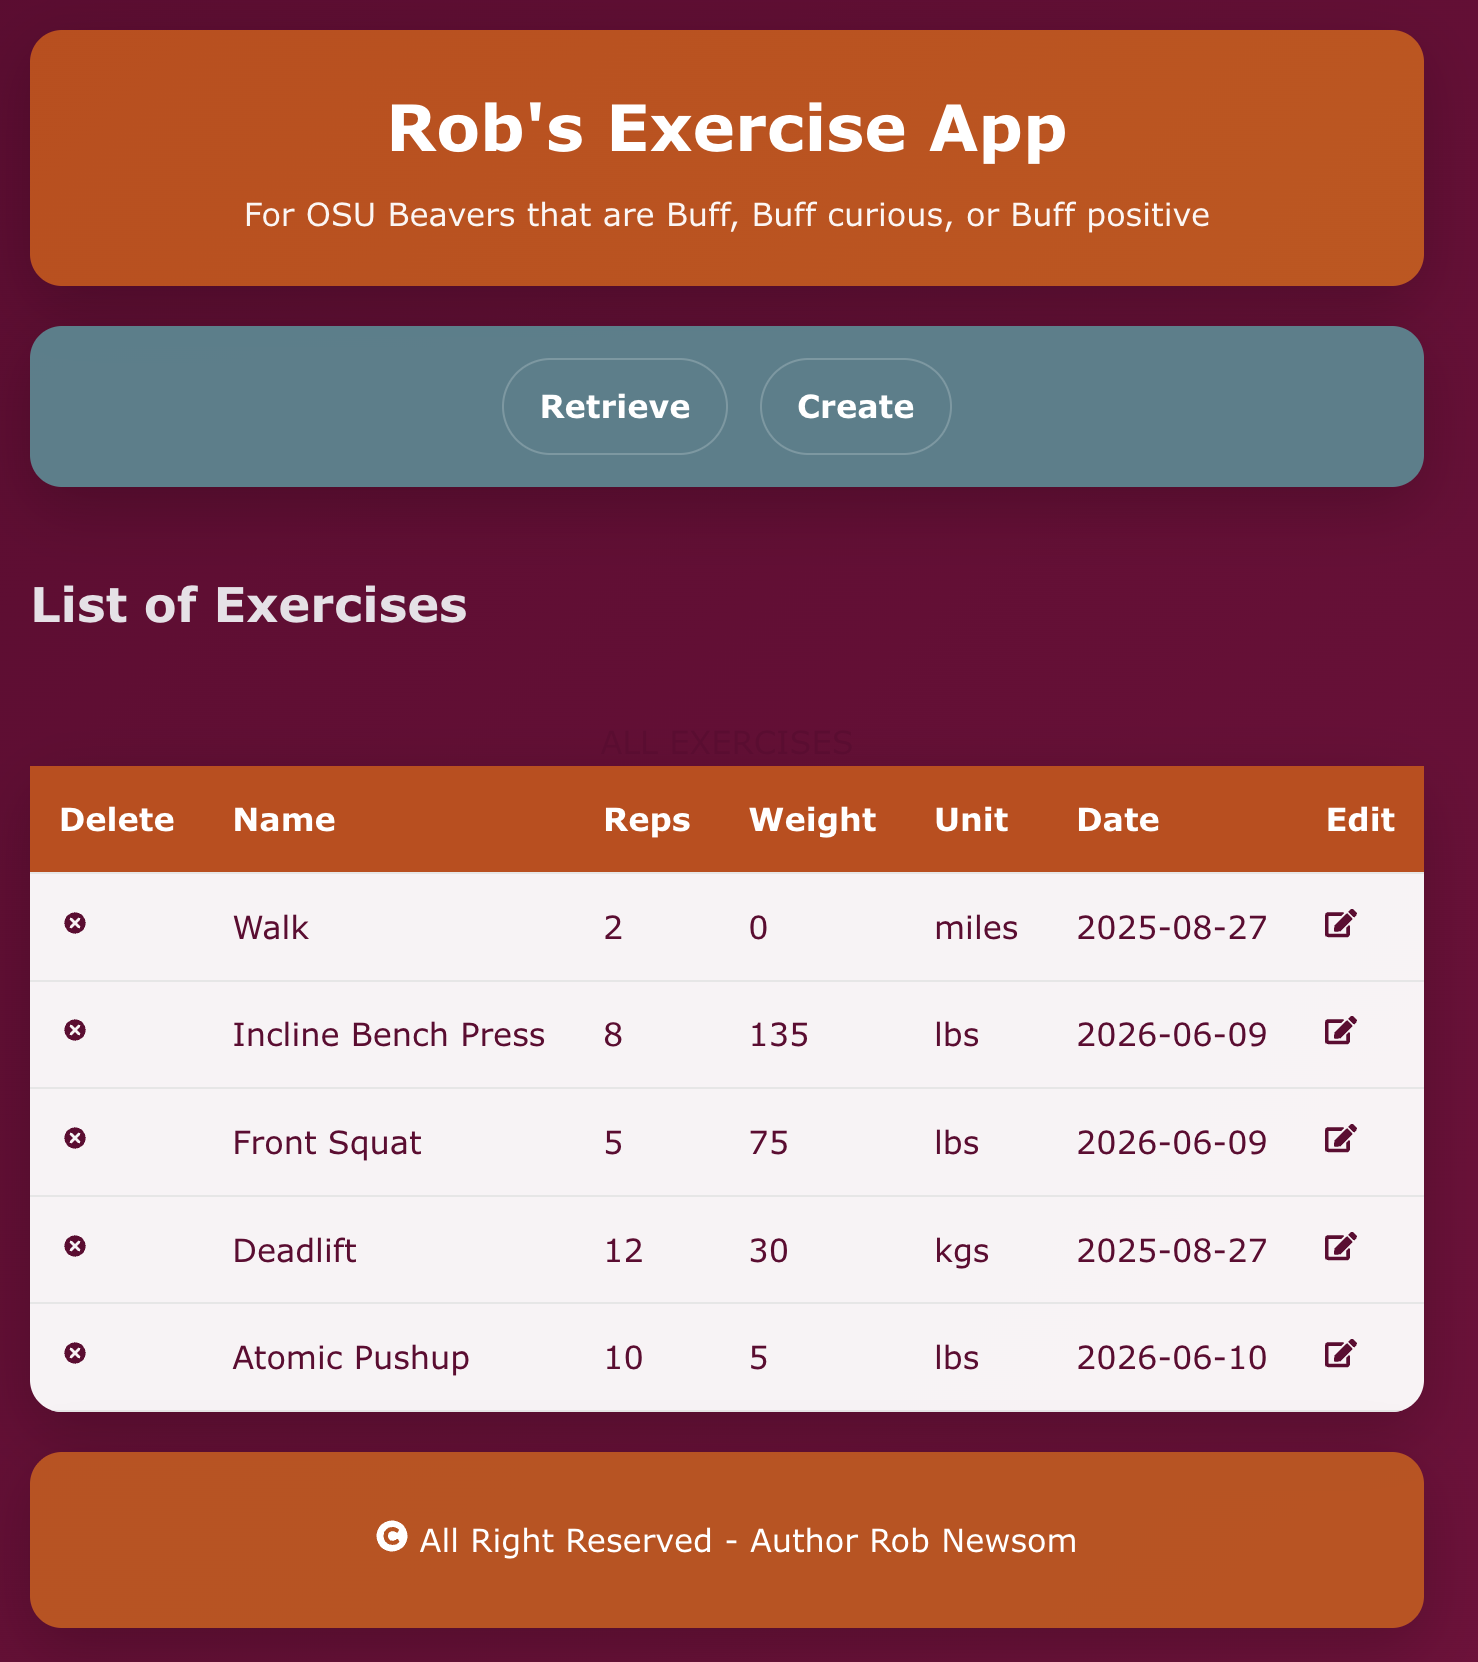
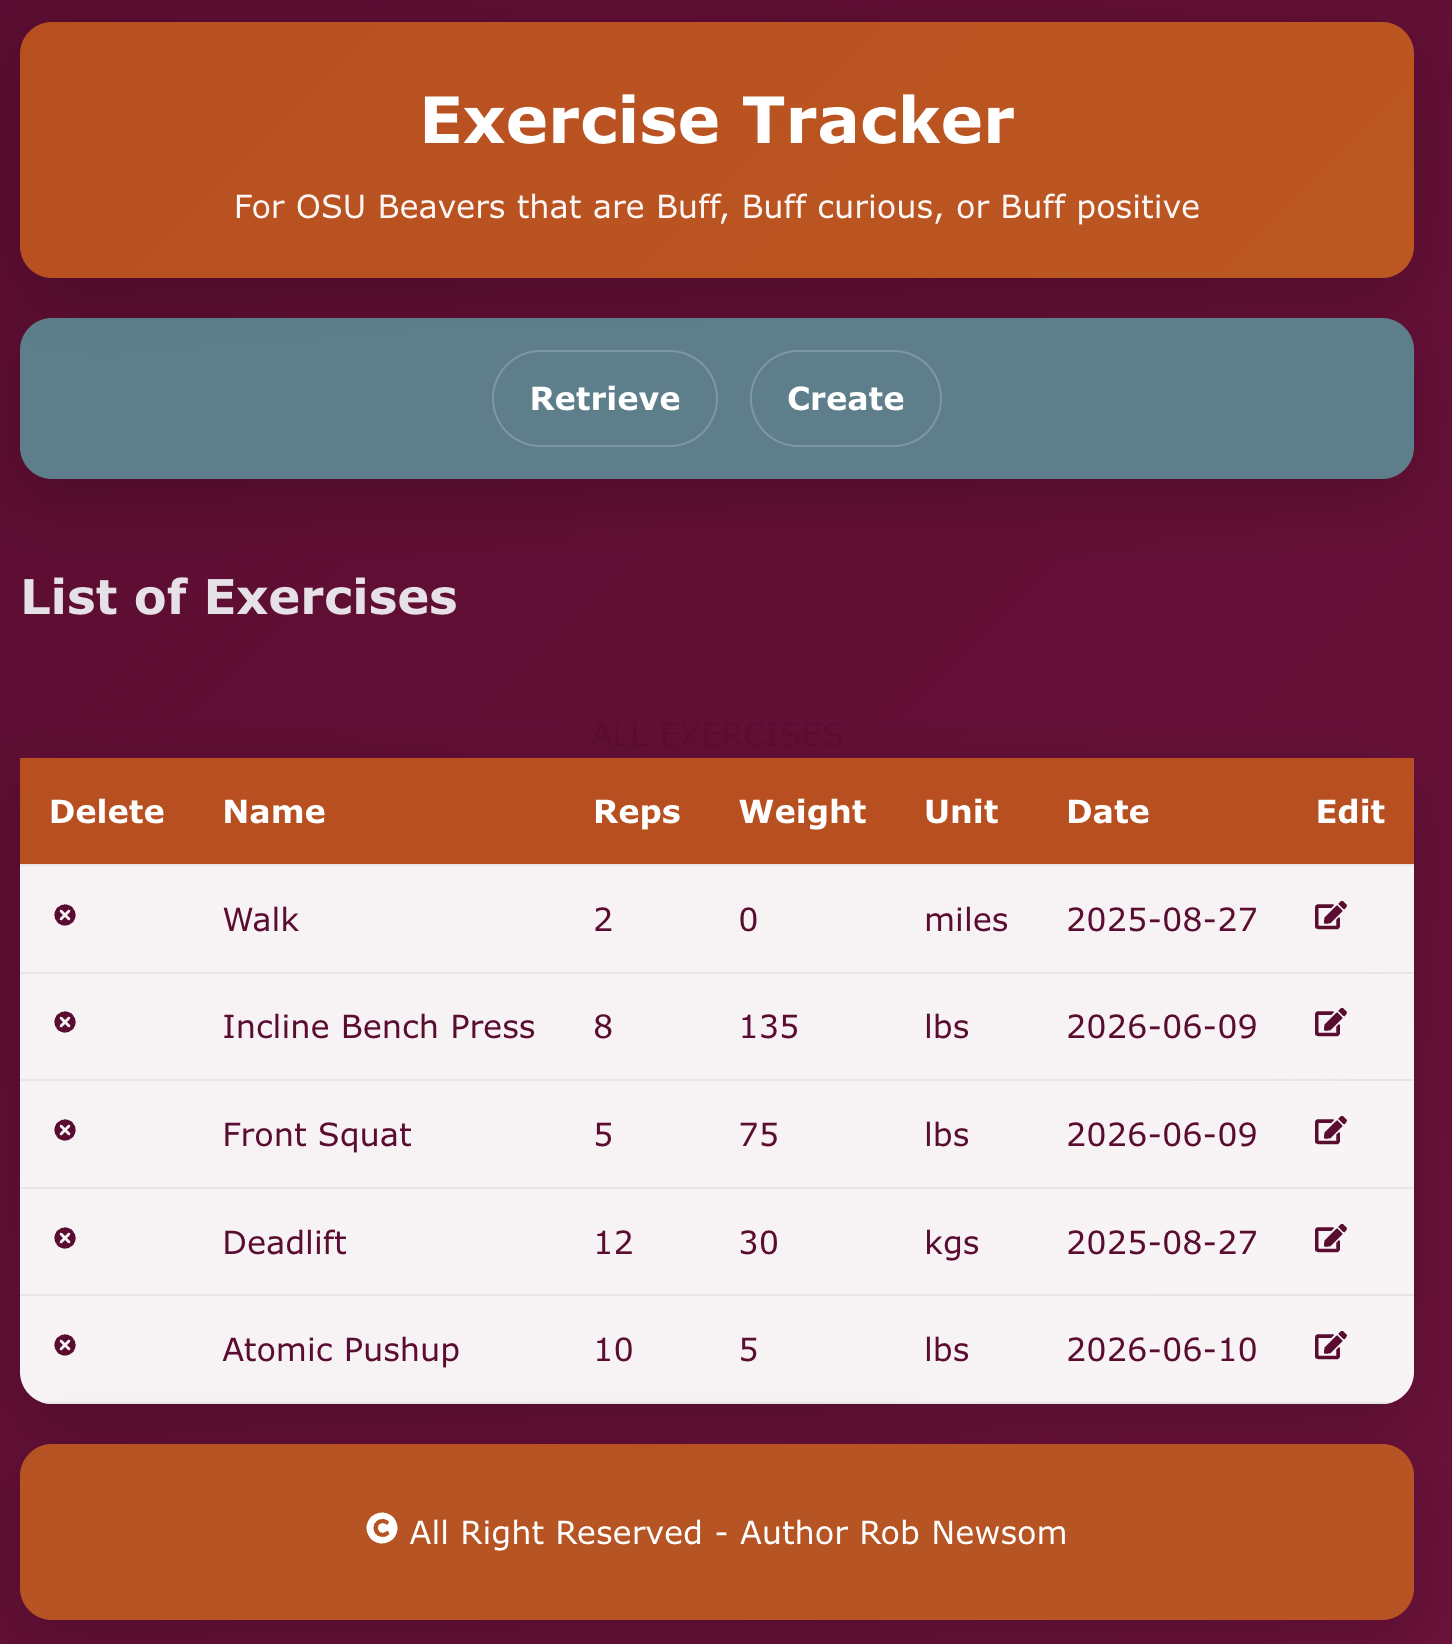
update screenshot

diff --git a/frontend-react/src/App.jsx b/frontend-react/src/App.jsx
@@ -14,7 +14,7 @@ function App() {
   return (
     <div className="main-content">
       <header>
-        <h1>Rob's Exercise App</h1>
+        <h1>Exercise Tracker</h1>
         <p>For OSU Beavers that are Buff, Buff curious, or Buff positive</p>
       </header>
       